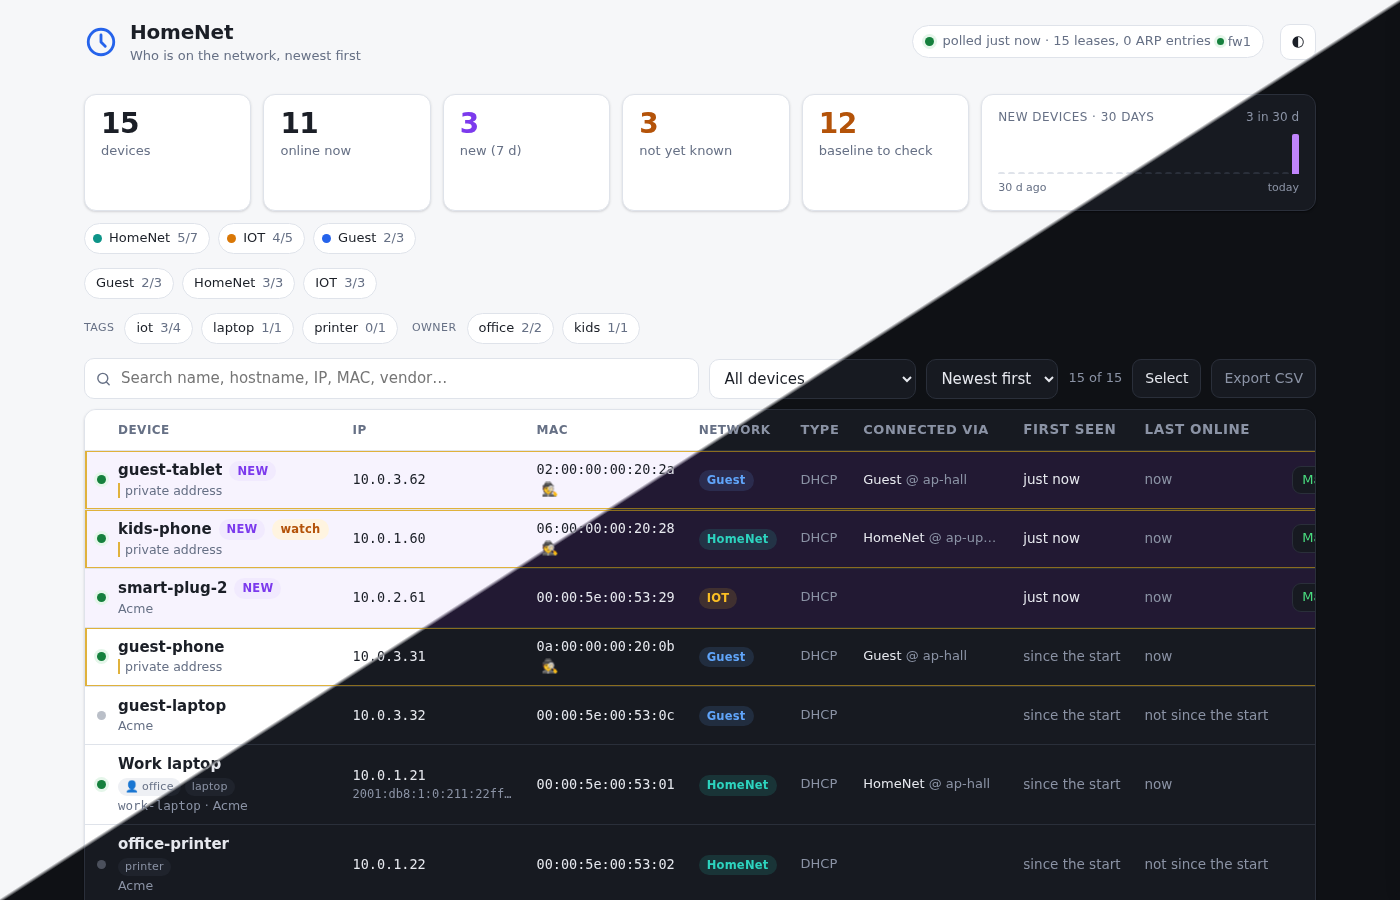
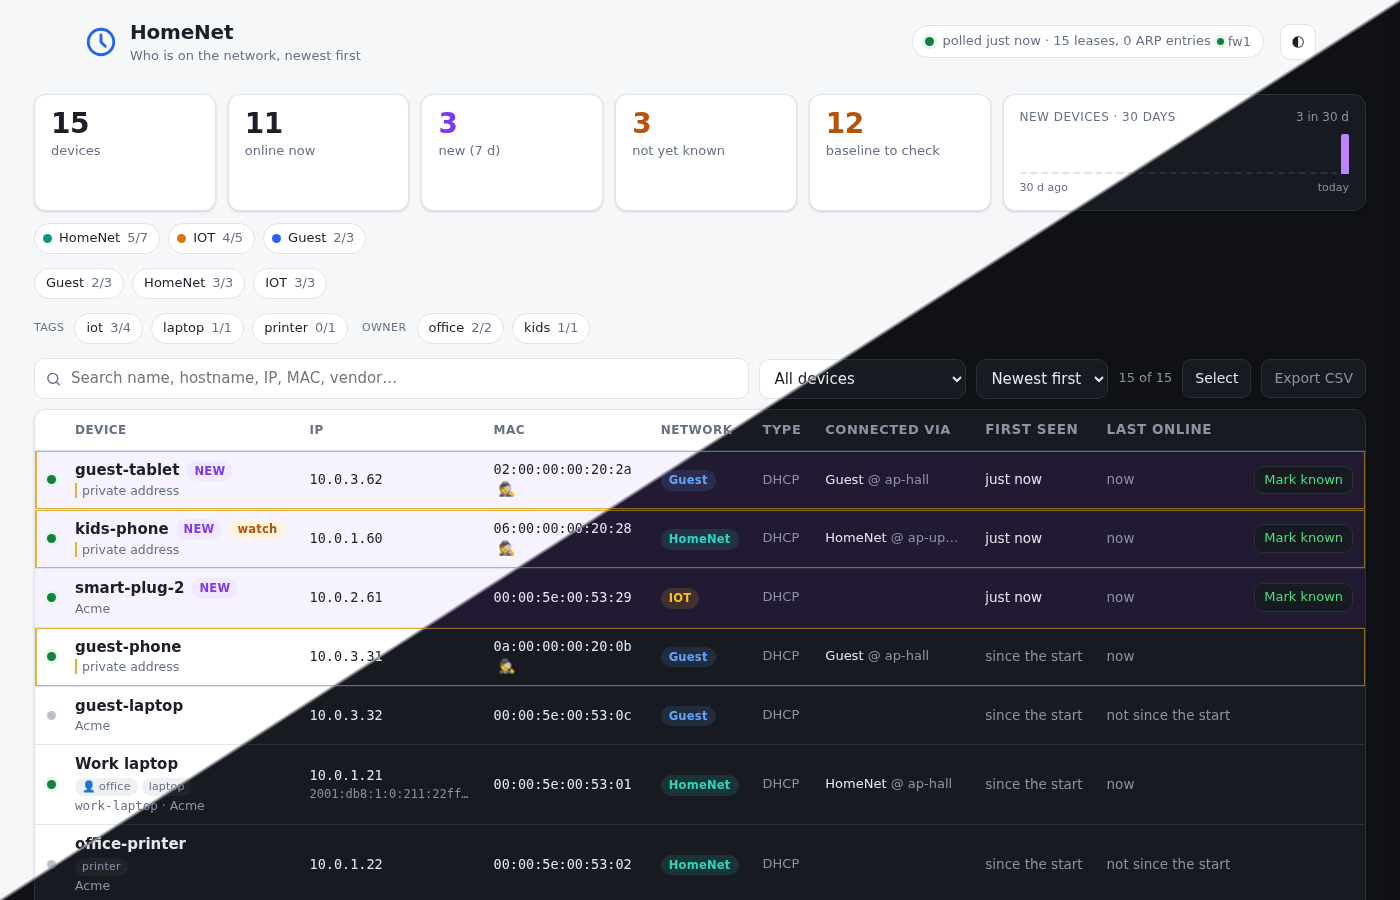
The device table fits without a sideways scroll
From a 1400 px window the page is 1380 px wide, so every column shows at
its natural width; below that the page stays capped at 1280 px and the
date phrases may wrap when the table is tight. The Mark known column was
cut off at the right edge before. The README screenshot is re-taken.

diff --git a/leasewatch/static/style.css b/leasewatch/static/style.css
@@ -143,6 +143,8 @@ tbody tr:last-child td { border-bottom: 0; }
 @media (max-width: 1279px) { :lang(sv) .c-act .btn.ack { white-space: normal; text-align: left; line-height: 1.15; } } /* "Markera som känd" wraps where the table is tight */
 th.c-first, th.c-last { white-space: normal; } /* a long heading (Swedish "Första gången sedd") wraps instead of widening the column past its dates */
 .c-first, .c-last { white-space: nowrap; color: var(--muted); font-size: 13.5px; font-variant-numeric: tabular-nums; }
+/* below 1400 px the page is capped at 1232 px and a full table is tight: a long phrase ("not since the start") may wrap there, so the actions column fits without a sideways scroll; from 1400 px the page is 100 px wider instead */
+@media (max-width: 1399px) { td.c-first, td.c-last { white-space: normal; } }
 .c-first.recent { color: var(--text); }
 .c-act { width: 1%; text-align: right; white-space: nowrap; }
 /* click-to-copy MAC and IP text: nothing is added on hover, and "Copied" floats above the text, so no column moves */
@@ -224,8 +226,9 @@ table.aliases th, table.wifi th { padding: 4px 8px 4px 0; font-size: 11px; backg
 table.aliases td, table.wifi td { padding: 4px 8px 4px 0; overflow-wrap: anywhere; vertical-align: top; }
 
 footer { max-width: 1280px; margin: 0 auto; padding: 0 24px 30px; color: var(--muted); font-size: 12px; }
+@media (min-width: 1400px) { main, footer { max-width: 1380px; } } /* a wide window gets 100 px more, so every column fits at its natural width */
 
-@media (max-width: 1279px) { .c-type { display: none; } } /* the table is capped at 1232 px (main): Type fits from 1280 px */
+@media (max-width: 1279px) { .c-type { display: none; } } /* the table is capped at 1232 px (main; 1332 px from a 1400 px window): Type fits from 1280 px */
 /* Select mode adds the 24 px checkbox column. It is paid for by Type from 1280 px, and by First seen up to 1400 px (the
    long names of the rows, and the Connected via text, take the width the column would need), then by Last seen and
    Connected via; the drawer shows every one of them */

diff --git a/README.md b/README.md
@@ -169,7 +169,7 @@ The server answers at most 64 requests at once (a 503 with `Retry-After: 5` beyo
 - **Tags:** free tags per device, typed comma-separated in the device page (typed text that a failed save would lose is kept until the next open). The Select bar adds or removes a tag on the selected devices (a device whose own tags plus the added ones would pass eight is named in a confirm and left out). Tags are normalised: lower-case, blanks become dashes, only letters, digits, `_`, `:`, `.` and `-`, the first character a letter or digit (so `-legacy` and `.old` are refused), 1-24 characters each, at most 8 per device; anything else is refused with the reason. `owner:alex` is the way to record who owns a device (the page groups those under Owner). The toolbar shows a chip per tag with online/total counts (the 12 most used, then "+N more"); a click filters the table and the address carries `?tag=`. The search box finds tags. A tagged device counts as named: it is never folded into another device, archived by `PRUNE_DAYS` or `PRUNE_PRIVATE_DAYS`, or deleted by `PURGE_DAYS`. A `tags` event records every change with who did it. The CSV has a `tags` column and `import-csv` restores it. Only the single POST sets the whole tags text; the bulk route (`POST /api/devices`) adds tags with `tags_add` and removes them with `tags_remove` on many devices at once, all or nothing: if a device would get more than 8 tags, the answer names it in `full` and no device changes. Each changed device gets the same `tags` event as the single POST.
 - **Archive:** "Archive" on the device page takes a device out of the list (the status filter "Archived" shows the archived ones; "Restore to list" puts one back). **Several at once:** "Select" in the toolbar shows a checkbox per row (and hides the Type column meanwhile; on windows of 1400 px and less the First column too, at 1100 px and less also Last and Where); tick rows, or all visible rows with the header box, and the bar at the bottom offers Mark known, Archive (Restore to list under the "Archived" filter), a tag input with Add and Remove, and Clear. A selection covers only the rows on screen; "Done" leaves the mode and clears it. A client that may not write has no "Select" button. An archived device keeps its history, events, name, note and ack, is still updated while the firewall lists it, is not counted in the cards and network chips, and leaves the new-device mail queue. It comes back to the list by itself when it is online again (on the wire, not merely listed: a static lease is listed every poll) after it has been offline, with one `back` event ("back from the archive (archived N days ago)"), no `new` event and no mail; one archived while still online stays archived until then. `PRUNE_DAYS` (default 0 = off) archives, once per poll, every device that is offline, has not been online for that many days (since first seen if never online), has no name, is not tagged and is not marked known or marked Watch, devices present at the start included, but not one restored by hand since it was last online, for as long as its `restored` event is kept (events are kept `EVENT_DAYS`, default 365, so `EVENT_DAYS` below `PRUNE_DAYS` or `PRUNE_PRIVATE_DAYS` shortens that hold and a start warning says so); event `archived` "auto: not online for N days". `PRUNE_PRIVATE_DAYS` (default 0 = use `PRUNE_DAYS`, else 2-3650) is a shorter threshold (never longer than `PRUNE_DAYS`) for private (randomised) MACs that never merged: no name, note or ack, not tagged, not marked Watch, not made by a split, and no merged address pointing at it; event `archived` "auto (private): not online for N days". It runs with `PRUNE_DAYS` off too, then archives only those devices; the hand-restore hold applies to it as well. It never runs at the first poll or while the baseline waits. `PRUNE_DAYS` follows the same prune clock as the event log (it moves at most a day per start and at most twice real time), so a clock that jumps ahead does not archive devices early; after a long downtime pruning lags until the clock catches up. `PURGE_DAYS` (default 0 = off, e.g. 180) deletes, once per poll, every archived device that has been archived longer than that by the prune clock, is offline, that no source has listed for that long, has no name, no note, no tags and is not marked known or marked Watch, together with its history, events, Seen-by rows, Wi-Fi history and merged addresses (other devices' `merged` or `split` events that name it stay). A purged MAC that is seen again is a new device (and mails as one). It never runs at the first poll or while the baseline waits, and it follows the same prune clock as `PRUNE_DAYS`. For a long-lived install set `PURGE_DAYS`: archived rows cost every poll and every page load. The database file does not shrink until `python -m leasewatch vacuum` (see Backup and reset).
 - Interfaces in a firewall instance's `LW_CONNECTOR__<NAME>__IGNORE_INTERFACES` (default WAN and loopback) are skipped.
-- **Layout:** the table fits a 400 px phone window (the IPv6 line and the badges move into a meta line); the Type column shows from 1280 px; the search applies 150 ms after the last key, Enter and Escape at once.
+- **Layout:** the page is 1280 px wide at most (1380 px from a 1400 px window); the table fits a 400 px phone window (the IPv6 line and the badges move into a meta line) and never scrolls sideways on a desktop (a long date phrase wraps instead); the Type column shows from 1280 px; the search applies 150 ms after the last key, Enter and Escape at once.
 - **Language:** the page is available in English and Swedish. `?lang=sv` or `?lang=en` in the address decides first (it stays across filter clicks and Clear filters, and is per address: nothing is stored in the browser, and there is no switch in the page); else the `UI_LANG` setting (`auto` default, `en`, `sv`; any other value logs a WARNING at start and counts as `auto`); else the browser's language (Swedish when its first language starts with `sv`); else English. Counts follow the language's plural forms, decimals use the page's language (a comma in Swedish) and sorting follows its alphabet (å, ä, ö last). The texts are in `leasewatch/static/i18n.js`; the English text stays in the HTML as the fallback without script. Mails, webhook texts (ntfy, Discord, and `title`/`message` of the JSON body) and the MQTT event text follow `MAIL_LANG` (`en` default, `sv`), which is set explicitly and never taken from the browser or the page's language; any other value logs a WARNING at start and counts as `en`. Server-written event details (the text beside an event kind, e.g. `old -> new`), connector error texts, log lines, the CSV headers, the JSON keys and the API's error strings stay English, so a Swedish "down" subject quotes the connector's English error text (`fw1 är nere: connection refused`) and the body lines quote the stored English event details.
 
 ## Backup and reset

diff --git a/CHANGELOG.md b/CHANGELOG.md
@@ -2,6 +2,11 @@
 
 All notable changes to leasewatch are listed here. The format follows [Keep a Changelog](https://keepachangelog.com/en/1.1.0/).
 
+## Unreleased
+
+### Fixed
+- The full device table no longer scrolls sideways on a desktop, so the Mark known column is always in view: from a 1400 px window the page is 1380 px wide (was 1280), and below that the date phrases ("not since the start") wrap when the table is tight.
+
 ## 1.6.0 (2026-11-09)
 
 ### Added
